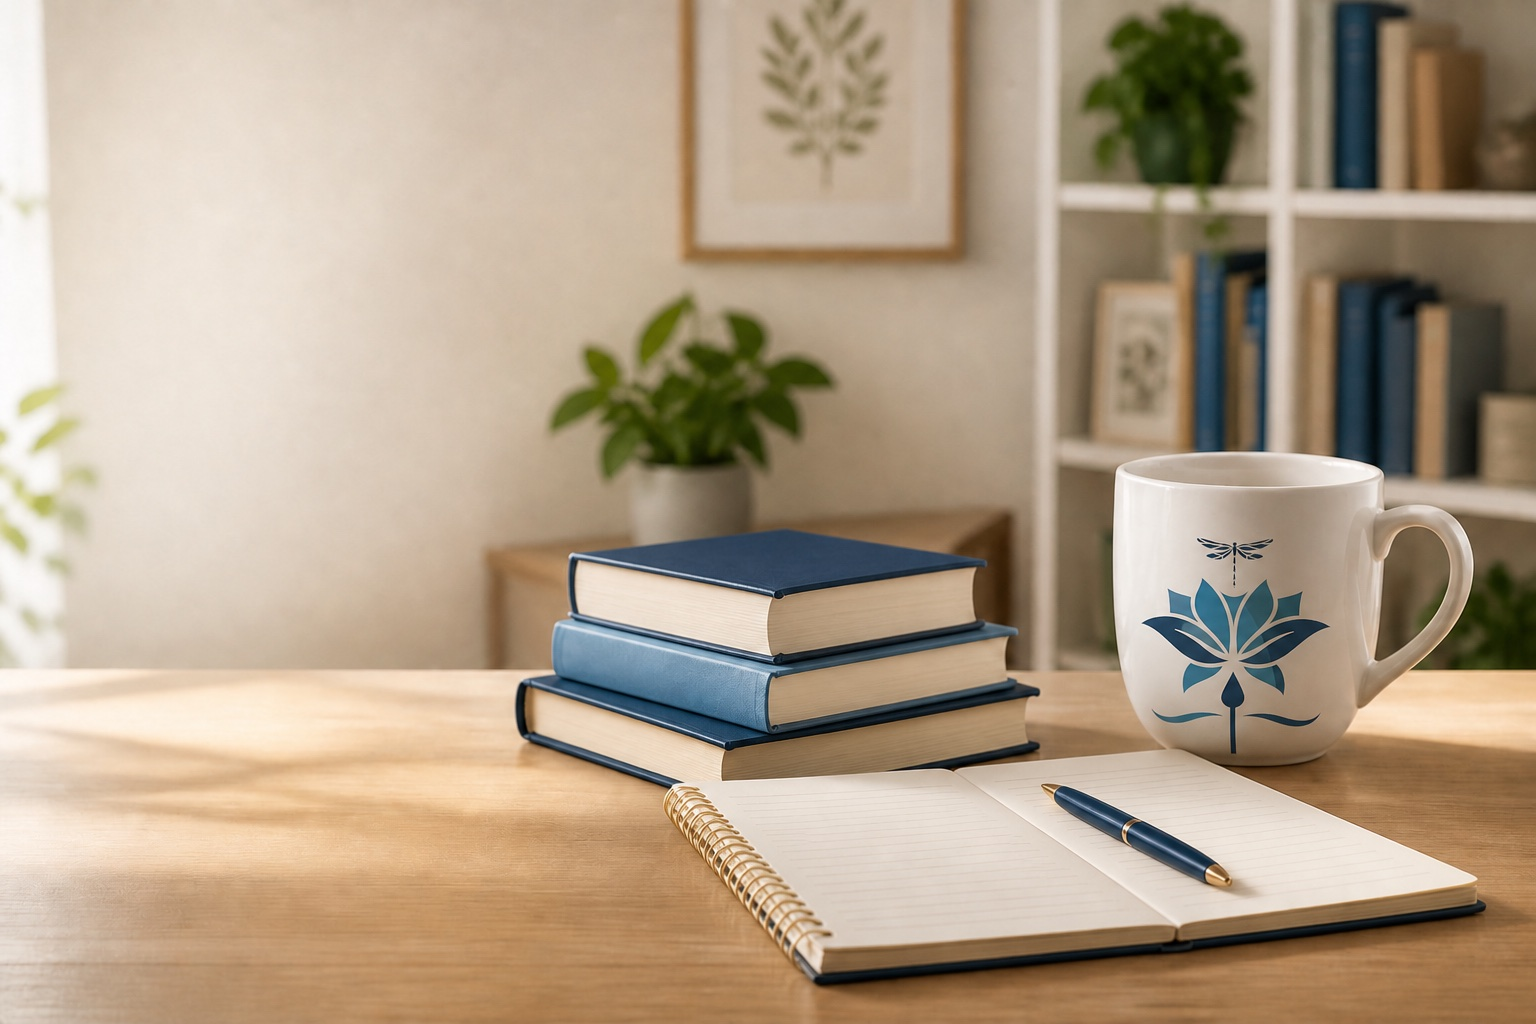
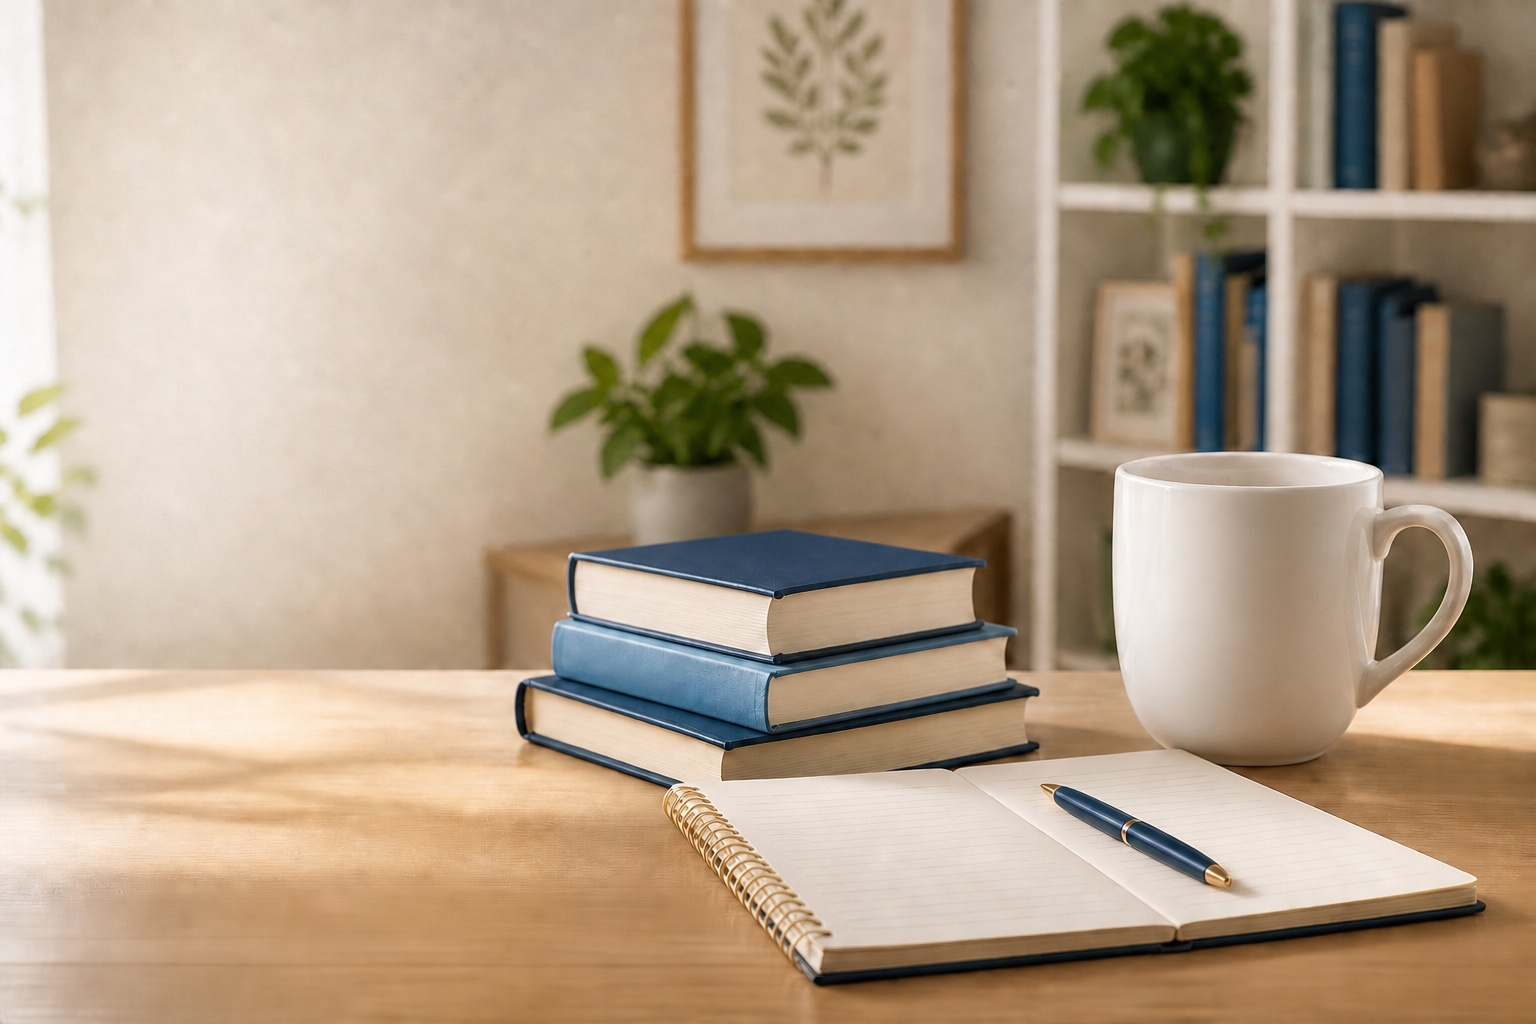
Use plain white mug in home hero

Changed region(s): [[0.75, 0.5312, 0.875, 0.7188], [0.4375, 0.7812, 0.5, 0.9062]]

diff --git a/faq.html b/faq.html
@@ -7,7 +7,7 @@
     <meta name="theme-color" content="#123550" />
     <title>Frequently Asked Questions | The Crystal Dragonfly Education Consulting</title>
     <link rel="icon" type="image/png" href="assets/brand/favicon.png" />
-    <link rel="stylesheet" href="styles.css?v=20260702f" />
+    <link rel="stylesheet" href="styles.css?v=20260702g" />
     <script defer src="assets/vendor/lucide.min.js"></script><script defer src="site-config.js"></script><script defer src="script.js?v=20260702"></script>
   </head>
   <body data-page="faq">

diff --git a/index.html b/index.html
@@ -11,7 +11,7 @@
     <meta property="og:image" content="assets/images/education-consulting-hero-blue.jpg" />
     <title>The Crystal Dragonfly Education Consulting</title>
     <link rel="icon" type="image/png" href="assets/brand/favicon.png" />
-    <link rel="stylesheet" href="styles.css?v=20260702f" />
+    <link rel="stylesheet" href="styles.css?v=20260702g" />
     <script defer src="assets/vendor/lucide.min.js"></script>
     <script defer src="site-config.js"></script>
     <script defer src="script.js?v=20260702"></script>

diff --git a/about.html b/about.html
@@ -7,7 +7,7 @@
     <meta name="theme-color" content="#123550" />
     <title>About Crystal | The Crystal Dragonfly Education Consulting</title>
     <link rel="icon" type="image/png" href="assets/brand/favicon.png" />
-    <link rel="stylesheet" href="styles.css?v=20260702f" />
+    <link rel="stylesheet" href="styles.css?v=20260702g" />
     <script defer src="assets/vendor/lucide.min.js"></script><script defer src="site-config.js"></script><script defer src="script.js?v=20260702"></script>
   </head>
   <body data-page="about">

diff --git a/services.html b/services.html
@@ -7,7 +7,7 @@
     <meta name="theme-color" content="#123550" />
     <title>Services | The Crystal Dragonfly Education Consulting</title>
     <link rel="icon" type="image/png" href="assets/brand/favicon.png" />
-    <link rel="stylesheet" href="styles.css?v=20260702f" />
+    <link rel="stylesheet" href="styles.css?v=20260702g" />
     <script defer src="assets/vendor/lucide.min.js"></script><script defer src="site-config.js"></script><script defer src="script.js?v=20260702"></script>
   </head>
   <body data-page="services">

diff --git a/contact.html b/contact.html
@@ -7,7 +7,7 @@
     <meta name="theme-color" content="#123550" />
     <title>Contact | The Crystal Dragonfly Education Consulting</title>
     <link rel="icon" type="image/png" href="assets/brand/favicon.png" />
-    <link rel="stylesheet" href="styles.css?v=20260702f" />
+    <link rel="stylesheet" href="styles.css?v=20260702g" />
     <script defer src="assets/vendor/lucide.min.js"></script><script defer src="site-config.js"></script><script defer src="script.js?v=20260702"></script>
   </head>
   <body data-page="contact">
